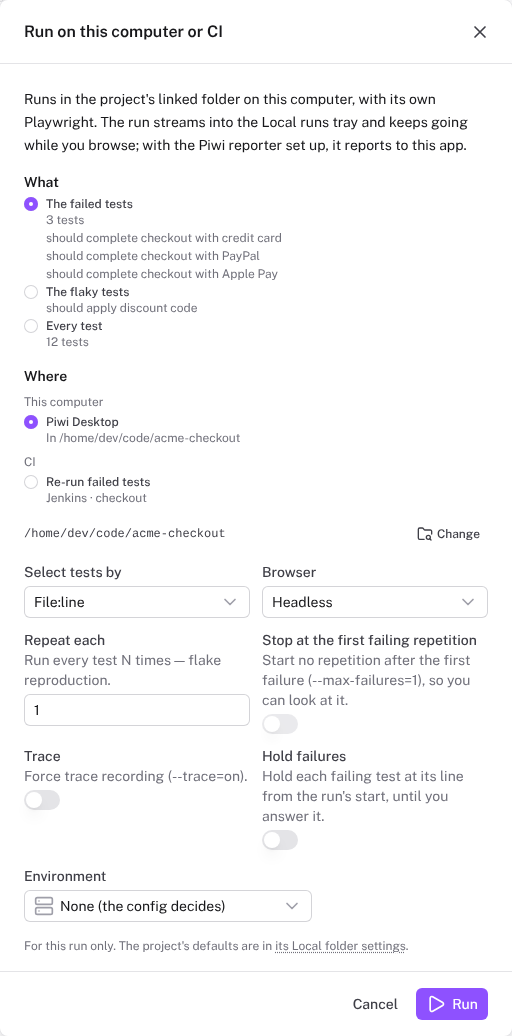
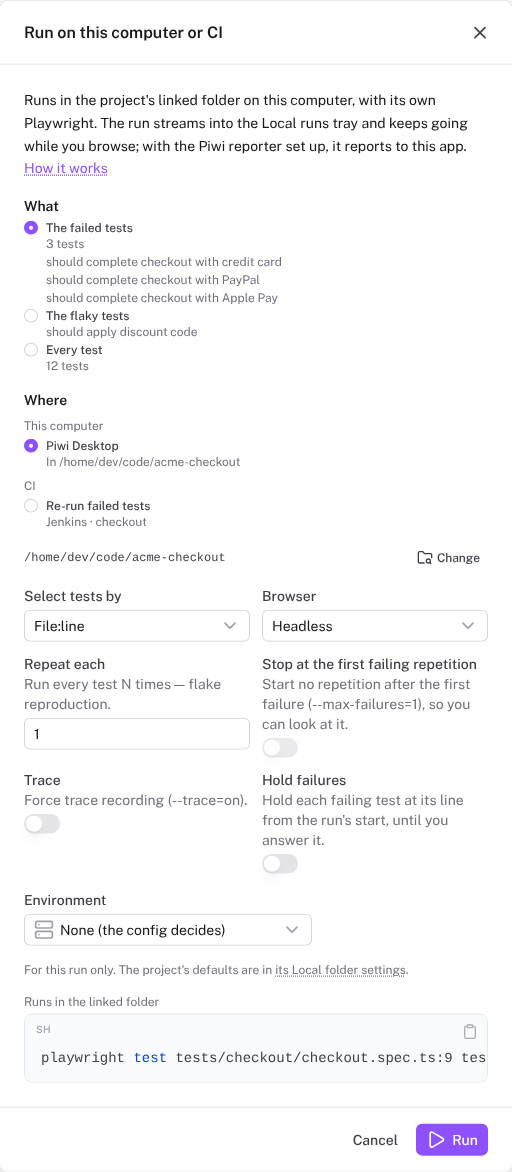
docs(docs): link This computer from its dialog and the CI page, and the local folder to its section
- The run dialog's sentence on This computer links Run on this computer, as the apps' does.
- Re-run in CI says the desktop app's button runs on this computer, and that its menu holds the
  runs on CI.
- Run on this computer says the run reports to the app with the Piwi reporter set up, and that a
  run by title leaves out the tests with no title.
- The Local folder's guide anchor and the UI overview link the desktop app's Projects from local
  folders, the section that covers it, and its help names the run buttons.
- The Verify section's anchor names the cluster's one run button.
- run-on-this-computer.png holds the whole dialog, and the selection bar's shot is the bar alone.

Claude-Session: https://claude.ai/code/session_01ADXAbctosGXfcWjUKDcuZN

diff --git a/apps/application/shared/help-content.ts b/apps/application/shared/help-content.ts
@@ -637,7 +637,7 @@ export const HELP_TOPICS = {
   },
   'project.local-folder': {
     title: 'Linked local folder',
-    text: 'The folder on this machine that holds this project’s Playwright config, where Playwright runs and the test paths of its runs start: in a monorepo, the config’s subfolder, not the repository root.\n\n- **Choose folder…** — offers the folders found on this machine and checks the one you pick against the project’s tests\n- **Once linked** — the app runs its tests and opens its files in your IDE; each Re-run button of the project starts from its default run options\n\nThe link and the options stay on this machine, never on the server.',
+    text: 'The folder on this machine that holds this project’s Playwright config, where Playwright runs and the test paths of its runs start: in a monorepo, the config’s subfolder, not the repository root.\n\n- **Choose folder…** — offers the folders found on this machine and checks the one you pick against the project’s tests\n- **Once linked** — the app runs its tests from each run button of the project, which starts from its default run options, and opens its files in your IDE\n\nThe link and the options stay on this machine, never on the server.',
     doc: 'features/desktop#projects-from-local-folders',
   },
 

diff --git a/apps/application/app/components/run-requests/RunDialog.vue b/apps/application/app/components/run-requests/RunDialog.vue
@@ -71,6 +71,7 @@ const instanceAddress = computed(() => {
         <p v-if="place.localPick" class="text-sm text-highlighted leading-relaxed" data-testid="run-dialog-sentence">
           Runs in the project's linked folder on this computer, with its own Playwright. The run streams into the Local
           runs tray and keeps going while you browse; with the Piwi reporter set up, it reports to this app.
+          <DocLink to="features/run-on-this-computer" no-icon :class="SENTENCE_LINK_CLASS">How it works</DocLink>
         </p>
         <p v-else-if="place.appPick" class="text-sm text-highlighted leading-relaxed" data-testid="run-dialog-sentence">
           Your app shows the request with its checks and the command; nothing runs until you click

diff --git a/apps/docs/features/run-on-this-computer.md b/apps/docs/features/run-on-this-computer.md
@@ -12,7 +12,8 @@ In the [desktop app](./desktop)'s window, the [run button](./ci-rerun#the-run-di
 failure cluster and a test runs the page's tests in the project's linked folder, with the folder's own Playwright and
 the app's bundled Node. Its dialog's **Where** lists **This computer** in place of your apps
 ([Run on my machine](./run-on-my-machine), which a browser offers), before the project's [CI actions](./ci-actions).
-The run streams into the [Local runs tray](./local-runs-tray), keeps going while you browse, and reports to the app.
+The run streams into the [Local runs tray](./local-runs-tray), keeps going while you browse, and, with the Piwi
+reporter set up, reports to the app.
 
 <figure>
   <img src="/screenshots/run-on-this-computer.png" alt="The run dialog of a failed run in the desktop app: the failed tests, the flaky ones or every test under What; This computer picked under Where, in the linked folder, above a CI action; then the linked folder, the run options and the environment">
@@ -43,7 +44,8 @@ a run here makes This computer its **Where** again. The button remembers the las
 
 ## The arrow
 
-- **Runs this command**: what the button runs, and the tests it leaves out, those with no file path Playwright takes.
+- **Runs this command**: what the button runs, and the tests it leaves out, those with no file path Playwright takes,
+  or no title when it selects them by title.
 - **Run once** headless, headed, in the inspector or in UI mode, and **Run other tests**: the page's other tests.
 - The one-click runs on CI, as in a browser.
 - **Options of this button**: **Record trace**, [**Hold failures**](./watch-a-run#hold-failures), **Repeat each** with

diff --git a/apps/docs/features/ci-rerun.md b/apps/docs/features/ci-rerun.md
@@ -11,7 +11,8 @@ lang: en-US
 A [filtered run that passes every affected test closes a cluster](./failure-clusters#did-the-fix-work). Piwi can start
 that run in CI, and others: a page's **run button** opens a dialog whose **Where** lists the project's
 [CI actions](./ci-actions) beside your own apps ([Run on my machine](./run-on-my-machine)). It reads **Run on CI**,
-**Run on my machine** or **Run on my machine or CI**, after what you may use there:
+**Run on my machine** or **Run on my machine or CI**, after what you may use there; in the desktop app, it says what it
+runs on [this computer](./run-on-this-computer):
 
 | Page | What CI runs |
 |---|---|
@@ -52,7 +53,7 @@ Playwright takes.
   any other CI server job runs its configured branch. A name git refuses is not sent.
 - Each choice input offers its options; the fixed ones are listed.
 - The button's menu sends the page's first **What** in one click, to one action or app, on the branch the dialog
-  would pick, with the default choices.
+  would pick, with the default choices. In the desktop app, it is This computer's menu, with these runs on CI in it.
 
 After **Send** the dialog follows the dispatch: *waiting for the run to report*, with **Open in CI**, then the run and
 its result once [matched](#matching-the-run), which a toast says if you closed the dialog. With no run after 30

diff --git a/apps/docs/features/ui-overview.md b/apps/docs/features/ui-overview.md
@@ -77,7 +77,7 @@ palette lists its tabs and the pages of this menu. The tabs:
   [capabilities](/operate/capabilities), coverage, [targets](./analytics#targets), the
   [issue tracker](./issue-tracking), [CI](./ci-rerun), keys in test tags, [test management](./test-management),
   [URL patterns](./extension-connection#url-patterns) and, in the desktop app, the
-  [local folder](./desktop#running-tests-from-the-app).
+  [local folder](./desktop#projects-from-local-folders).
 
 ## Locators
 
